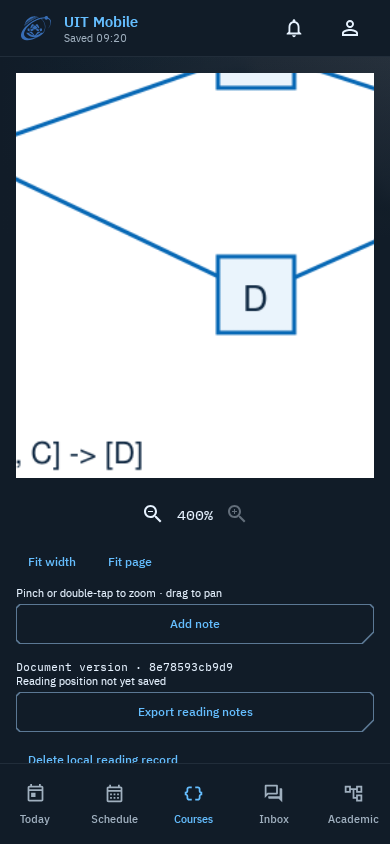
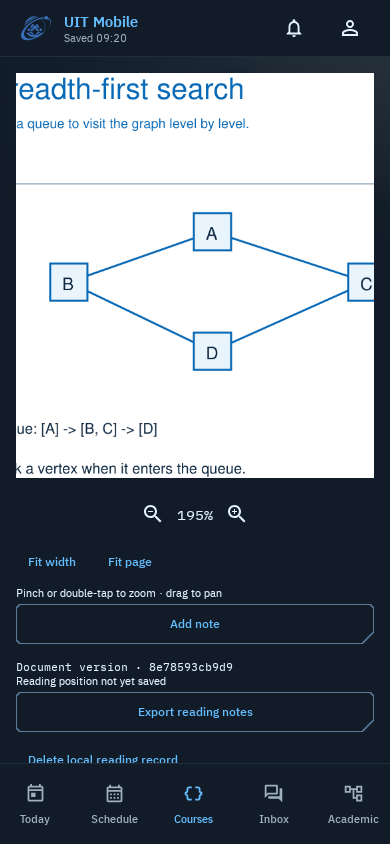
fix(courses): resolve interrupted saves and verify actual pinch gestures

diff --git a/feature/courses/src/main/kotlin/vn/edu/uit/mobile/courses/CourseReadingViewModel.kt b/feature/courses/src/main/kotlin/vn/edu/uit/mobile/courses/CourseReadingViewModel.kt
@@ -224,12 +224,15 @@ class CourseReadingViewModel(
         }
     }
     private suspend fun persistPosition(): Boolean = writes.withLock {
-        val pending = pendingWrite
-        if (pending != null && !save(pending.expected, pending.value, pending.done)) return@withLock false
+        if (!resolvePending()) return@withLock false
         val current = state.value
         val record = current.record ?: return@withLock !current.dirty
         if (!current.dirty) return@withLock true
         return@withLock save(record, record.copy(position = current.position))
+    }
+    private suspend fun resolvePending(): Boolean {
+        val pending = pendingWrite ?: return true
+        return save(pending.expected, pending.value, pending.done)
     }
     private suspend fun save(expected: ReadingRecord, next: ReadingRecord, done: () -> Unit = {}): Boolean {
         val token = epoch
@@ -300,6 +303,7 @@ class CourseReadingViewModel(
         viewModelScope.launch {
             writes.withLock {
                 if (token != epoch || state.value.record?.identity != current.record.identity) return@withLock
+                if (!resolvePending()) return@withLock
                 val record = state.value.record ?: return@withLock
                 val next = try {
                     block(record.copy(position = if (state.value.archived) record.position else state.value.position)).also(ReadingRules::record)
@@ -359,9 +363,11 @@ class CourseReadingViewModel(
         viewModelScope.launch {
             writes.withLock {
                 if (token != epoch) return@withLock
+                if (!resolvePending()) return@withLock
+                val latest = state.value.record?.takeIf { it.identity == record.identity } ?: return@withLock
                 state.value = state.value.copy(saving = true)
                 try {
-                    repository.remove(record)
+                    repository.remove(latest)
                     currentCoroutineContext().ensureActive()
                     if (token == epoch) {
                         clear(true)

diff --git a/app/src/test/kotlin/vn/edu/uit/mobile/ReadingDesignTest.kt b/app/src/test/kotlin/vn/edu/uit/mobile/ReadingDesignTest.kt
@@ -216,16 +216,28 @@ class ReadingDesignTest {
     @Test fun fitWidthPinchPanAndFitPageKeepReadingControlsUsable() {
         open()
         click("Read in app")
+        compose.onNodeWithTag("reading-page").performScrollTo().performTouchInput {
+            pinch(
+                    start0 = center - Offset(width * .25f, 0f), end0 = center - Offset(width * .4f, 0f),
+                    start1 = center + Offset(width * .25f, 0f), end1 = center + Offset(width * .4f, 0f)
+                )
+        }
+        pump()
+        assertTrue("Pinch must also start at fit-page scale", vm.uiState.value.position.zoom > 1.2f)
+        click("Fit page")
         click("Fit width")
         assertTrue(vm.uiState.value.position.zoom > 1f)
         assertTrue(vm.uiState.value.position.panY >= 0f)
         capture("reading-fit-width-390-phone")
         val before = vm.uiState.value.position.zoom
         compose.onNodeWithTag("reading-page").performTouchInput {
-            pinch(center - Offset(40f, 0f), center + Offset(40f, 0f), center - Offset(80f, 0f), center + Offset(80f, 0f))
+            pinch(
+                start0 = center - Offset(40f, 0f), end0 = center - Offset(80f, 0f),
+                start1 = center + Offset(40f, 0f), end1 = center + Offset(80f, 0f)
+            )
         }
         pump()
-        assertTrue(vm.uiState.value.position.zoom > before)
+        assertTrue(vm.uiState.value.position.zoom > before * 1.2f)
         compose.onNodeWithTag("reading-page").performTouchInput { swipe(center, center + Offset(40f, 40f)) }
         pump()
         assertTrue(vm.uiState.value.position.panX != 0f || vm.uiState.value.position.panY != 0f)

diff --git a/app/src/androidTest/kotlin/vn/edu/uit/mobile/CourseReadingNativeTest.kt b/app/src/androidTest/kotlin/vn/edu/uit/mobile/CourseReadingNativeTest.kt
@@ -147,12 +147,15 @@ class CourseReadingNativeTest {
             compose.waitUntil(15000) { vm.uiState.value.record?.notes?.size == 1 && vm.uiState.value.draft == null && !vm.uiState.value.saving }
             compose.onNodeWithTag("reading-page").performScrollTo().performTouchInput {
                 // Start on the page, outside the centered note's native touch target at any density.
-                pinch(center - Offset(width * .25f, 0f), center + Offset(width * .25f, 0f), center - Offset(width * .4f, 0f), center + Offset(width * .4f, 0f))
+                pinch(
+                    start0 = center - Offset(width * .25f, 0f), end0 = center - Offset(width * .4f, 0f),
+                    start1 = center + Offset(width * .25f, 0f), end1 = center + Offset(width * .4f, 0f)
+                )
             }
-            compose.waitUntil(15000) { vm.uiState.value.position.zoom > 1f }
+            compose.waitUntil(15000) { vm.uiState.value.position.zoom > 1.2f }
             compose.onNodeWithText("Fit page").performScrollTo().performClick()
             compose.onNodeWithTag("reading-page").performScrollTo().performTouchInput { doubleClick(Offset(width * .2f, height * .2f)) }
-            compose.waitUntil(15000) { vm.uiState.value.position.zoom > 1f }
+            compose.waitUntil(15000) { vm.uiState.value.position.zoom > 1.2f }
             compose.runOnIdle { vm.savePosition() }
             compose.waitUntil(15000) { !vm.uiState.value.dirty && !vm.uiState.value.saving }
             compose.runOnIdle { vm.libraryFromDocument() }

diff --git a/app/src/test/kotlin/vn/edu/uit/mobile/ReadingViewModelTest.kt b/app/src/test/kotlin/vn/edu/uit/mobile/ReadingViewModelTest.kt
@@ -247,6 +247,25 @@ class ReadingViewModelTest {
         assertEquals(2, vm.uiState.value.position.page)
     }
 
+    @Test fun aNoteSaveResolvesAnInterruptedAutosaveBeforeBuildingTheNextRevision() = checkModel {
+        open()
+        h.afterWrite = {
+            h.afterWrite = null
+            vm.viewport(ReadingPosition(1, 3f))
+        }
+        vm.viewport(ReadingPosition(1, 2f))
+        advanceTimeBy(501)
+        runCurrent()
+        vm.editNote()
+        vm.draftText("Keep this note after the interrupted position write.")
+        vm.saveDraft()
+        runCurrent()
+        assertNull(vm.uiState.value.draft)
+        assertFalse(vm.uiState.value.pendingSave)
+        assertEquals(1, vm.uiState.value.record!!.notes.size)
+        assertEquals(3f, vm.uiState.value.record!!.position.zoom)
+    }
+
     @Test fun fullReadingStorageStillAllowsReadOnlyPdfNavigationAndLeaving() = checkModel {
         repeat(50) { index ->
             val record = ReadingFixtures.initial.copy(identity = ReadingFixtures.identity.copy(documentId = index.toString(16).padStart(64, '0')))

diff --git a/app/src/test/kotlin/vn/edu/uit/mobile/ReadingTestHarness.kt b/app/src/test/kotlin/vn/edu/uit/mobile/ReadingTestHarness.kt
@@ -24,6 +24,7 @@ internal class ReadingTestHarness(private val root: File, dispatcher: CoroutineD
     }
     var failWrite = false
     var committedFailure = false
+    var afterWrite: (() -> Unit)? = null
     var failRead = false
     val values = mutableMapOf<String, String>()
     private val storage = object : StudyStorage {
@@ -34,6 +35,7 @@ internal class ReadingTestHarness(private val root: File, dispatcher: CoroutineD
         override fun write(key: String, value: String) {
             check(!failWrite)
             values[key] = value
+            afterWrite?.invoke()
             check(!committedFailure)
         }
         override fun remove(key: String) {

diff --git a/docs/COURSE-READING-EVIDENCE.md b/docs/COURSE-READING-EVIDENCE.md
@@ -10,8 +10,8 @@ The implementation for #32 is on `feat/course-pdf-reader`, stacked on latest par
 | --- | --- |
 | Domain, 3 tests | Position/page geometry, pin/text bounds, identity/version separation, duplicate/owner/collection limits |
 | Data, 14 tests | Position/bookmark/note restoration; exact revisions and uncertain-write retry; owner removal and late writes; old versions; corrupt-owner isolation; export schema/privacy; note order round trips; captured-byte verification/cache replacement; cleanup despite cancellation or another cleanup-hook failure |
-| ViewModel, 14 tests | Local library; explicit open; saved viewport restoration/coalescing; bookmark/note CRUD; retained failed drafts; idempotent retry; save-before-leave; late owner removal; version replacement; deleted-file records; unreadable storage; PDF/page failure; guarded export/writer failure; full storage remains readable and can be left |
-| Compose, 7 tests | Full phone flow; compact failed-save retry; version/archive review; Vietnamese 1.3× text; fit-width/pinch/pan/fit-page and parent scrolling; missing/unsupported PDF; canceled loading and readable PDF with local-store failure |
+| ViewModel, 15 tests | Local library; explicit open; saved viewport restoration/coalescing; bookmark/note CRUD; retained failed drafts; idempotent retry; interrupted-autosave resolution before a note revision; save-before-leave; late owner removal; version replacement; deleted-file records; unreadable storage; PDF/page failure; guarded export/writer failure; full storage remains readable and can be left |
+| Compose, 7 tests | Full phone flow; compact failed-save retry; version/archive review; Vietnamese 1.3× text; pinch from fit-page and fit-width, pan, fit-page and parent scrolling; missing/unsupported PDF; canceled loading and readable PDF with local-store failure |
 | Activity, 1 additional test | Courses reading-library route, bottom-navigation leave and Back |
 | Course routing, 1 additional test | Exact course/file metadata carried into native opening; obsolete download cannot open after selection changes |
 | Android instrumentation, 3 new tests | Actual PdfRenderer pages/corrupt/locked PDFs and descriptor recovery; real Keystore restoration/export/owner removal; actual reader page navigation, pin note, bookmark, pinch/double-tap, restoration/export and removal |
@@ -21,12 +21,16 @@ normal GitHub Android 11/API 30 job alongside the eight existing native tests.
 Final-head results and captured native pages are linked on the PR after CI completes.
 No paid model test or university credential is required for this feature.
 
-The first native run passed 10 of 11 cases, including the renderer and encrypted
-storage tests. The reader workflow timed out during pinch after creating a centered
-note. Its gesture coordinates were changed to scale with the visible page and
-avoid the annotation button's touch target; the canvas is scrolled into view before
-gestures. Failure captures are now collected without masking the test exit status.
-See the PR's final-head report for the subsequent complete native result.
+The initial native runs passed 10 of 11 cases, including the renderer and encrypted
+storage tests. The reader workflow exposed a test-input error: `pinch` takes
+`start0, end0, start1, end1`, while the original call grouped starts then ends.
+That translated both fingers instead of increasing their separation. Named
+arguments now express the actual pinch; the host flow also checks zooming from
+fit-page scale and requires a material increase, rather than floating-point drift.
+Coordinates avoid the centered note's touch target and the canvas scrolls into view.
+A single shell script collects screenshots even after failed instrumentation and
+preserves its exit status; the emulator action executes multiline entries as
+separate shells. See the PR's final-head report for the complete native result.
 
 ## Host rendering boundary
 
